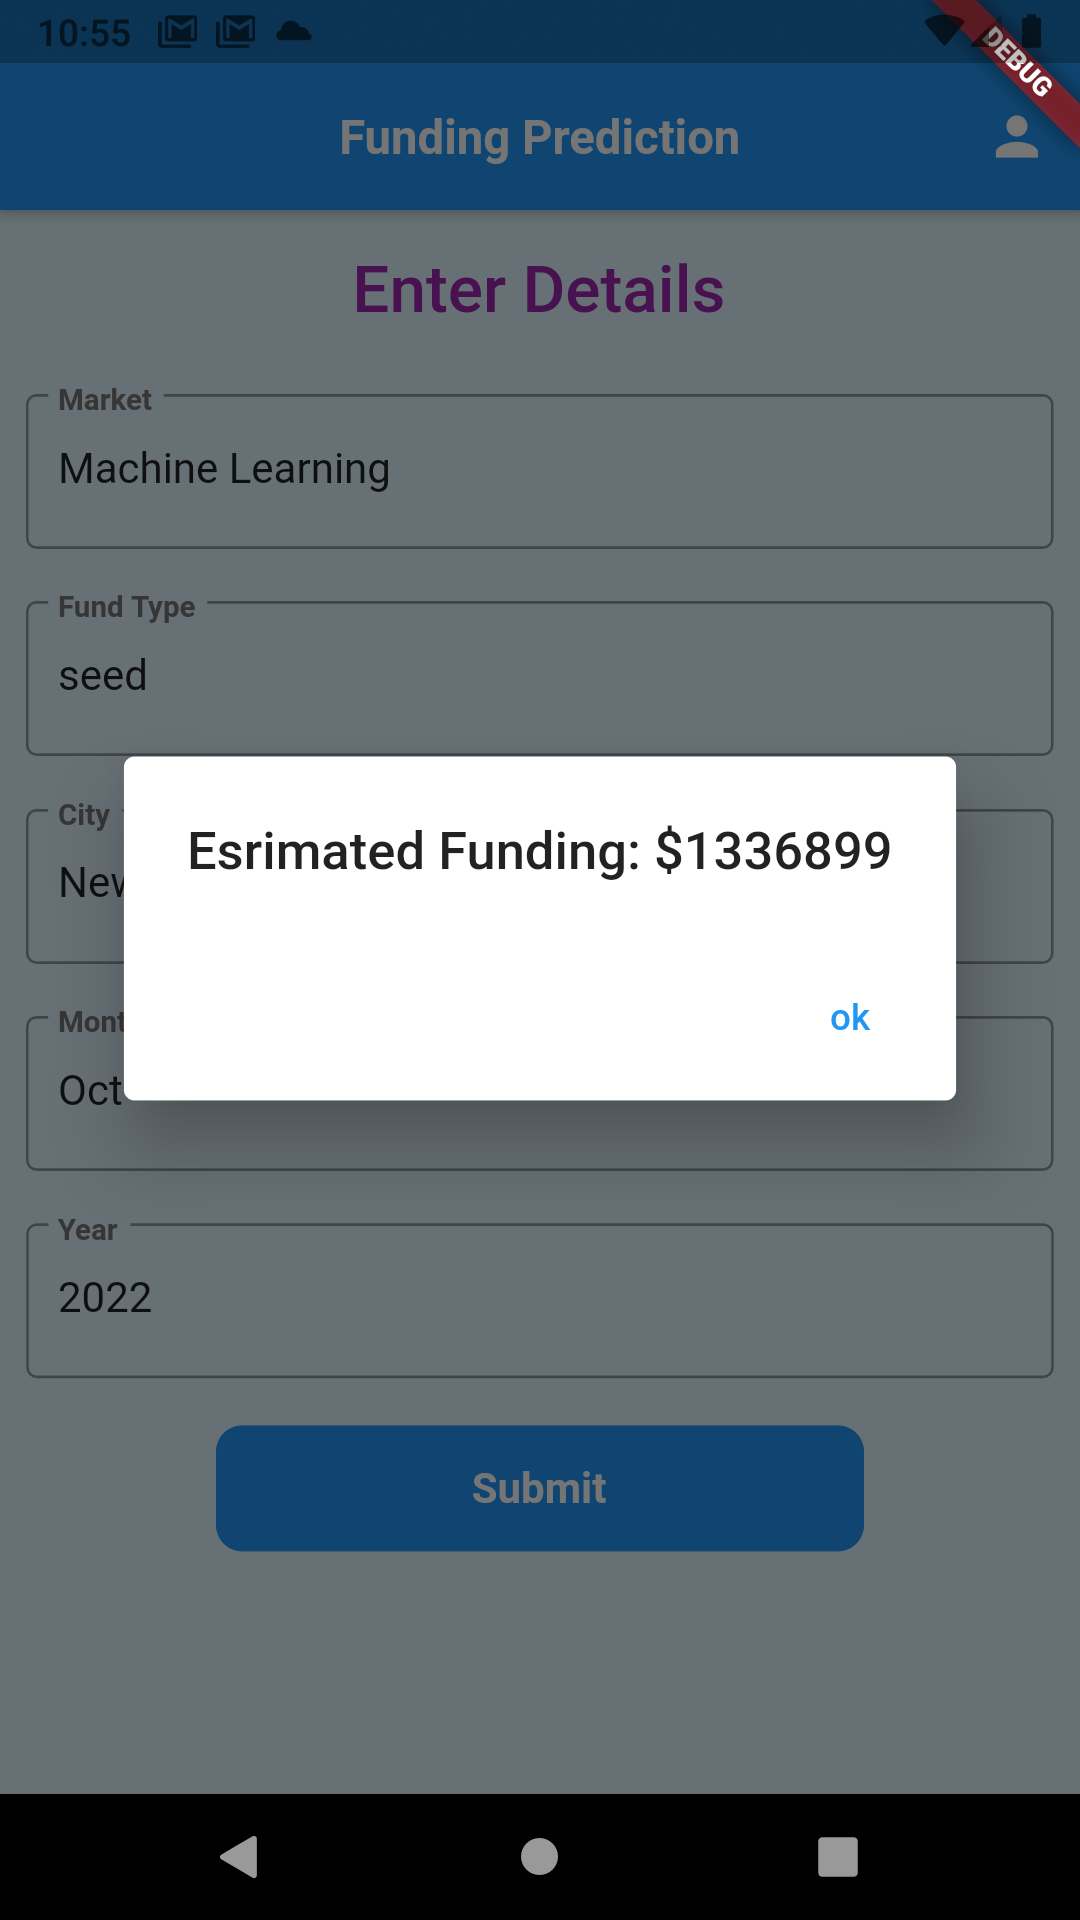
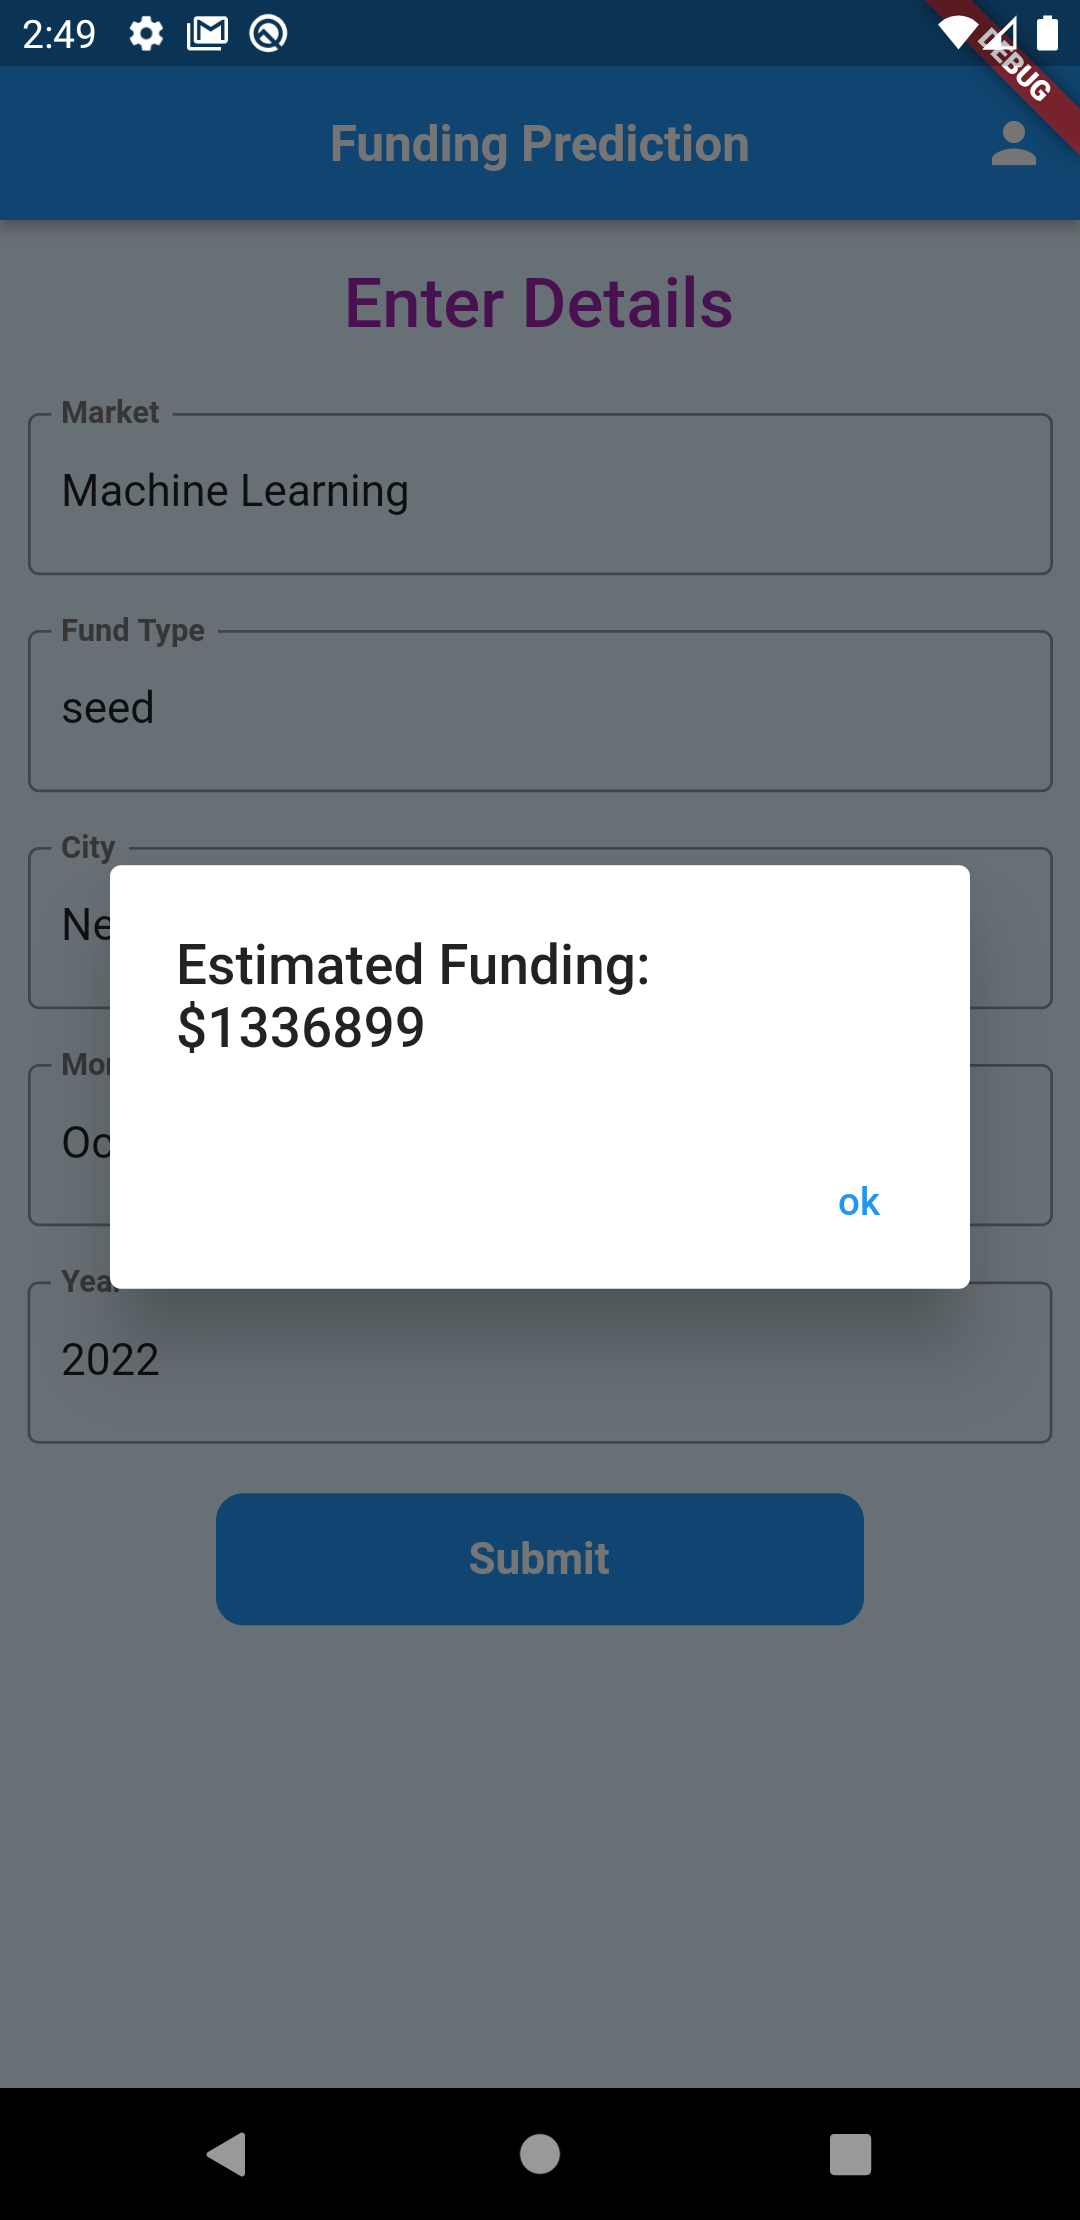
Text Correction

diff --git a/lib/home.dart b/lib/home.dart
@@ -294,7 +294,7 @@ class _HomeState extends State<Home> {
                                         .toString(),
                                     'year': _year.text
                                   };
-                                  String pred =
+                                  String pred = 
                                       await XgboostRegressor.getPrediction(
                                           startupData);
                                   showDialog(
@@ -308,7 +308,7 @@ class _HomeState extends State<Home> {
                                                   child: Text("ok")),
                                             ],
                                             title: Text(
-                                                'Esrimated Funding: \$$pred'),
+                                                'Estimated Funding: \$$pred'),
                                           ));
                                 } catch (e) {
                                   print(e.toString());
